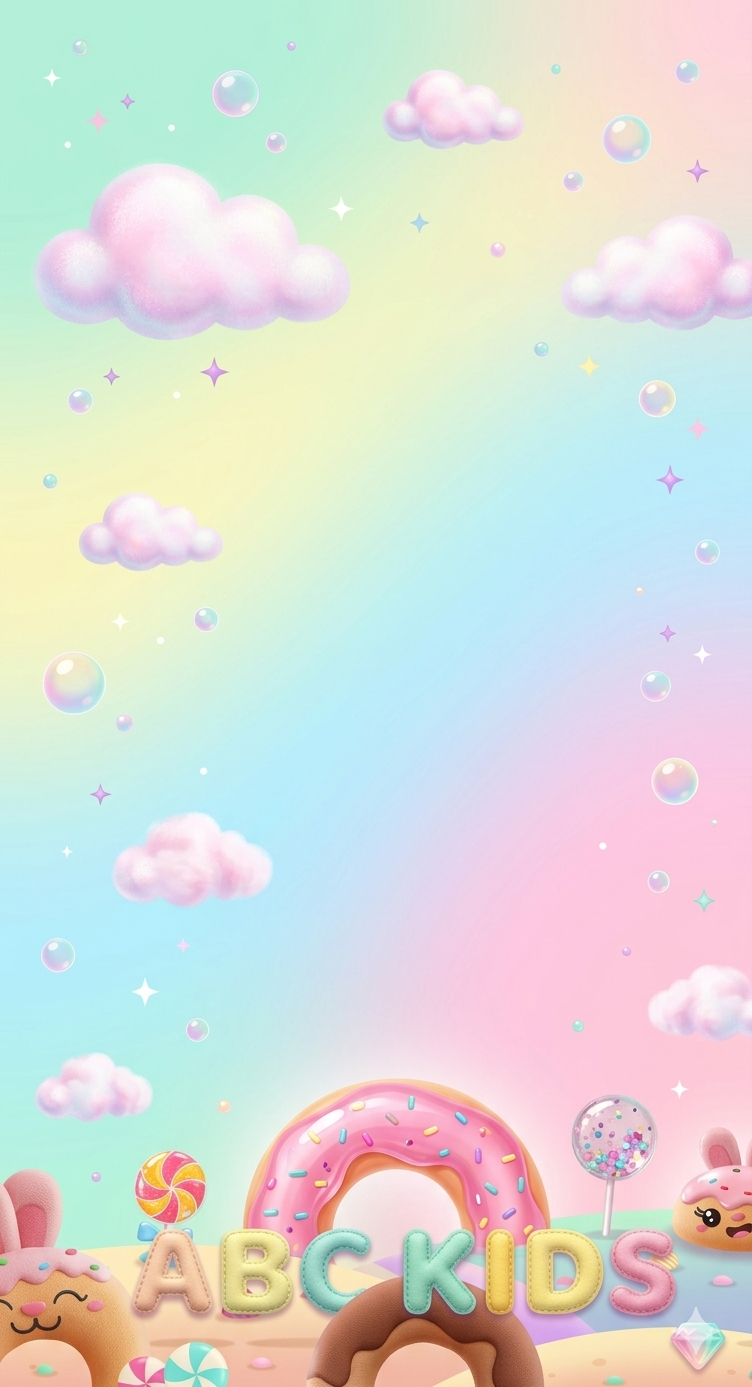
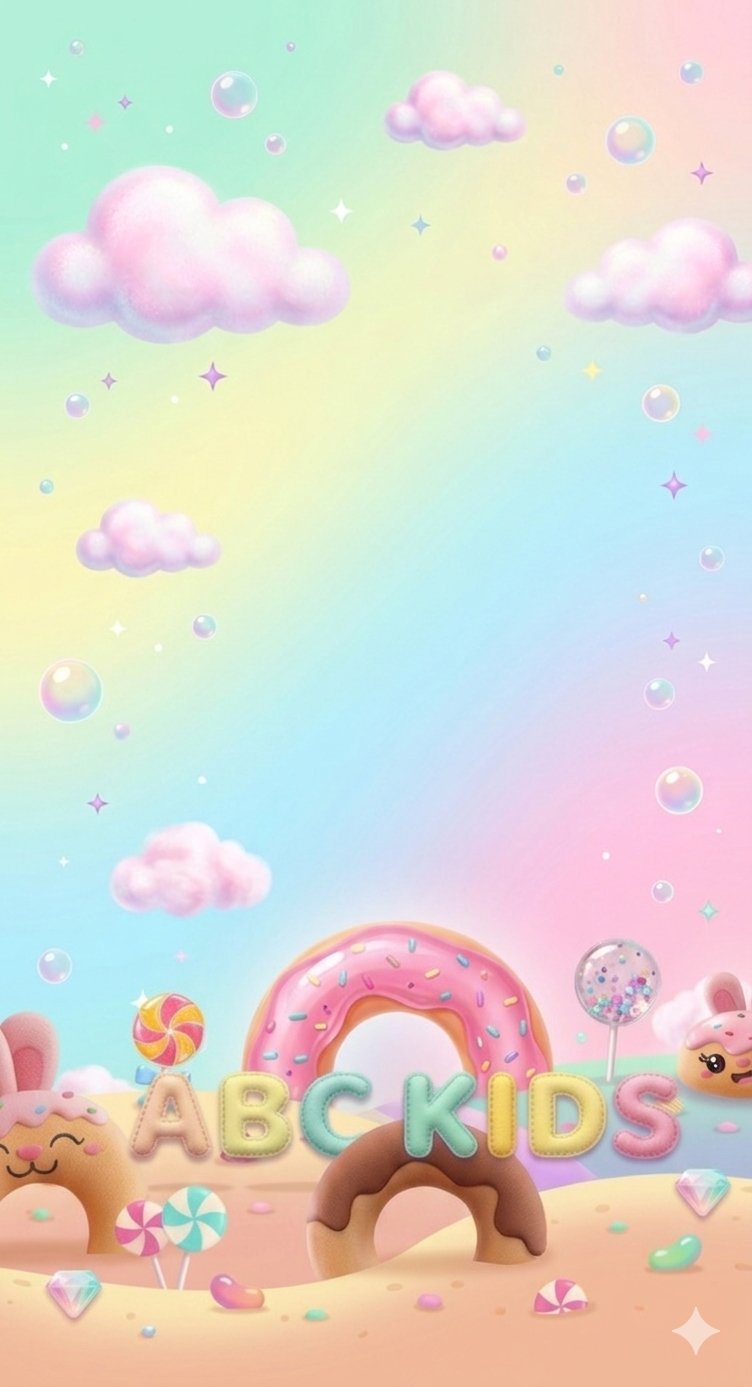
background change

diff --git a/lib/features/learning/view/detail_screen.dart b/lib/features/learning/view/detail_screen.dart
@@ -34,30 +34,35 @@ class _DetailScreenState extends State<DetailScreen> {
     context.read<AudioService>().playSound(_currentItem.audioFileName);
   }
 
-  void _showSpeedDialog() {
-    showGeneralDialog(
-      context: context,
-      barrierDismissible: false,
-      barrierLabel: "Speed",
-      barrierColor: Colors.black.withOpacity(0.35),
-      transitionDuration: const Duration(milliseconds: 280),
-      pageBuilder: (_, __, ___) => const SizedBox(),
-      transitionBuilder: (context, animation, _, child) {
-        final curved = CurvedAnimation(
-          parent: animation,
-          curve: Curves.easeOutCubic,
-        );
+void _showSpeedDialog() {
+  showGeneralDialog(
+    context: context,
+    barrierDismissible: true,
+    barrierLabel: "Speed",
+    barrierColor: Colors.black.withOpacity(0.35),
+    transitionDuration: const Duration(milliseconds: 280),
+    pageBuilder: (_, __, ___) => const SizedBox(),
+    transitionBuilder: (context, animation, _, child) {
+      final curved = CurvedAnimation(
+        parent: animation,
+        curve: Curves.easeOutCubic,
+      );
 
-        return Transform.scale(
-          scale: Tween(begin: 0.85, end: 1.0).evaluate(curved),
-          child: Opacity(
-            opacity: animation.value,
-            child: Center(child: _SpeedPopupContent()),
-          ),
-        );
-      },
-    );
-  }
+      return Transform.scale(
+        scale: Tween(begin: 0.85, end: 1.0).evaluate(curved),
+        child: Opacity(
+          opacity: animation.value,
+          child: Center(child: _SpeedPopupContent()),
+        ),
+      );
+    },
+  ).then((_) {
+    // ensure final sync (safety layer)
+    final audio = context.read<AudioService>();
+    audio.setPlaybackRate(audio.playbackRate);
+  });
+}
+
 
   void _goToPrevious() {
     final viewModel = context.read<LearningViewModel>();
@@ -360,24 +365,26 @@ class _SpeedPopupContentState extends State<_SpeedPopupContent> {
     audio.playCurrent(); // ⚠️ see NOTE below
   }
 
-  void _save(AudioService audio) {
-    audio.setPlaybackRate(tempSpeed);
-    Navigator.pop(context);
-  }
+  // void _save(AudioService audio) {
+  //   audio.setPlaybackRate(tempSpeed);
+  //   Navigator.pop(context);
+  // }
 
-  void _cancel(AudioService audio) {
-    audio.setPlaybackRate(originalSpeed);
-    Navigator.pop(context);
-  }
+  // void _cancel(AudioService audio) {
+  //   audio.setPlaybackRate(originalSpeed);
+  //   Navigator.pop(context);
+  // }
 
   @override
   Widget build(BuildContext context) {
+    Size size = MediaQuery.of(context).size;
     final audio = context.read<AudioService>();
 
     return Material(
       color: Colors.transparent,
       child: Container(
-        width: 360,
+        width: size.width * 0.85,
+        margin: const EdgeInsets.symmetric(horizontal: 20),
         padding: const EdgeInsets.symmetric(horizontal: 26, vertical: 28),
         decoration: BoxDecoration(
           borderRadius: BorderRadius.circular(30),
@@ -387,7 +394,7 @@ class _SpeedPopupContentState extends State<_SpeedPopupContent> {
           boxShadow: [
             BoxShadow(
               color: AppColors.shadowColor.withOpacity(.35),
-              blurRadius: 40,
+              blurRadius: 20,
               offset: const Offset(0, 18),
             ),
           ],
@@ -399,13 +406,15 @@ class _SpeedPopupContentState extends State<_SpeedPopupContent> {
             Row(
               children: const [
                 Icon(Icons.speed, color: AppColors.white, size: 30),
-                SizedBox(width: 12),
-                Text(
-                  "Pronunciation Speed",
-                  style: TextStyle(
-                    color: AppColors.white,
-                    fontSize: 22,
-                    fontWeight: FontWeight.w800,
+                SizedBox(width: 8),
+                Expanded(
+                  child: Text(
+                    "Pronunciation Speed",overflow: TextOverflow.ellipsis,
+                    style: TextStyle(overflow: TextOverflow.ellipsis,
+                      color: AppColors.white,
+                      fontSize: 20,
+                      fontWeight: FontWeight.w700,
+                    ),
                   ),
                 ),
               ],
@@ -453,14 +462,17 @@ class _SpeedPopupContentState extends State<_SpeedPopupContent> {
                       divisions: 6,
 
                       /// move only local value
-                      onChanged: (value) {
-                        setState(() => tempSpeed = value);
-                      },
+                    onChanged: (value) {
+  setState(() => tempSpeed = value);
+},
 
-                      /// ⭐ PROFESSIONAL BEHAVIOR
-                      onChangeEnd: (_) {
-                        _preview(audio);
-                      },
+onChangeEnd: (_) async {
+  audio.setPlaybackRate(tempSpeed);
+
+  // single controlled preview
+  audio.playCurrent();
+},
+
                     ),
                   ),
                 ],
@@ -470,49 +482,49 @@ class _SpeedPopupContentState extends State<_SpeedPopupContent> {
             const SizedBox(height: 30),
 
             /// ACTION BUTTONS
-            Row(
-              children: [
-                /// CANCEL
-                Expanded(
-                  child: OutlinedButton(
-                    onPressed: () => _cancel(audio),
-                    style: OutlinedButton.styleFrom(
-                      foregroundColor: AppColors.white,
-                      side: const BorderSide(color: AppColors.white),
-                      padding: const EdgeInsets.symmetric(vertical: 14),
-                      shape: RoundedRectangleBorder(
-                        borderRadius: BorderRadius.circular(18),
-                      ),
-                    ),
-                    child: const Text(
-                      "Cancel",
-                      style: TextStyle(fontWeight: FontWeight.w700),
-                    ),
-                  ),
-                ),
+            // Row(
+            //   children: [
+            //     /// CANCEL
+            //     Expanded(
+            //       child: OutlinedButton(
+            //         onPressed: () => _cancel(audio),
+            //         style: OutlinedButton.styleFrom(
+            //           foregroundColor: AppColors.white,
+            //           side: const BorderSide(color: AppColors.white),
+            //           padding: const EdgeInsets.symmetric(vertical: 14),
+            //           shape: RoundedRectangleBorder(
+            //             borderRadius: BorderRadius.circular(18),
+            //           ),
+            //         ),
+            //         child: const Text(
+            //           "Cancel",
+            //           style: TextStyle(fontWeight: FontWeight.w700),
+            //         ),
+            //       ),
+            //     ),
 
-                const SizedBox(width: 14),
+            //     const SizedBox(width: 14),
 
-                /// SAVE
-                Expanded(
-                  child: ElevatedButton(
-                    onPressed: () => _save(audio),
-                    style: ElevatedButton.styleFrom(
-                      backgroundColor: AppColors.white,
-                      foregroundColor: AppColors.gradientStart,
-                      padding: const EdgeInsets.symmetric(vertical: 14),
-                      shape: RoundedRectangleBorder(
-                        borderRadius: BorderRadius.circular(18),
-                      ),
-                    ),
-                    child: const Text(
-                      "Save",
-                      style: TextStyle(fontWeight: FontWeight.w800),
-                    ),
-                  ),
-                ),
-              ],
-            ),
+            //     /// SAVE
+            //     Expanded(
+            //       child: ElevatedButton(
+            //         onPressed: () => _save(audio),
+            //         style: ElevatedButton.styleFrom(
+            //           backgroundColor: AppColors.white,
+            //           foregroundColor: AppColors.gradientStart,
+            //           padding: const EdgeInsets.symmetric(vertical: 14),
+            //           shape: RoundedRectangleBorder(
+            //             borderRadius: BorderRadius.circular(18),
+            //           ),
+            //         ),
+            //         child: const Text(
+            //           "Save",
+            //           style: TextStyle(fontWeight: FontWeight.w800),
+            //         ),
+            //       ),
+            //     ),
+            //   ],
+            // ),
           ],
         ),
       ),

diff --git a/lib/core/services/audio_service.dart b/lib/core/services/audio_service.dart
@@ -115,23 +115,32 @@ class AudioService extends ChangeNotifier with WidgetsBindingObserver {
     _playSfx(fullPath);
   }
 
-  Future<void> setPlaybackRate(double rate) async {
-    _playbackRate = rate;
-    await AppPreferences.setPlaybackSpeed(rate);
-    await _sfxPlayer.setPlaybackRate(rate);
-    notifyListeners();
-  }
+Future<void> setPlaybackRate(double rate) async {
+  _playbackRate = rate;
+  await AppPreferences.setPlaybackSpeed(rate);
 
-  Future<void> _playSfx(String fullPath) async {
-    try {
-      await _sfxPlayer.stop();
-      await _sfxPlayer.setPlaybackRate(_playbackRate);
-      final relativePath = _getRelativeAssetPath(fullPath);
-      await _sfxPlayer.play(AssetSource(relativePath));
-    } catch (e) {
-      debugPrint('Audio missing: $fullPath');
-    }
+  // 🔥 CRITICAL: immediately apply to active player
+  await _sfxPlayer.setPlaybackRate(rate);
+
+  notifyListeners();
+}
+
+
+Future<void> _playSfx(String fullPath) async {
+  try {
+    await _sfxPlayer.stop();
+
+    final relativePath = _getRelativeAssetPath(fullPath);
+
+    await _sfxPlayer.play(AssetSource(relativePath));
+
+    // ⚠️ IMPORTANT: apply AFTER playback starts
+    await _sfxPlayer.setPlaybackRate(_playbackRate);
+  } catch (e) {
+    debugPrint('Audio missing: $fullPath');
   }
+}
+
 
   @override
   void dispose() {